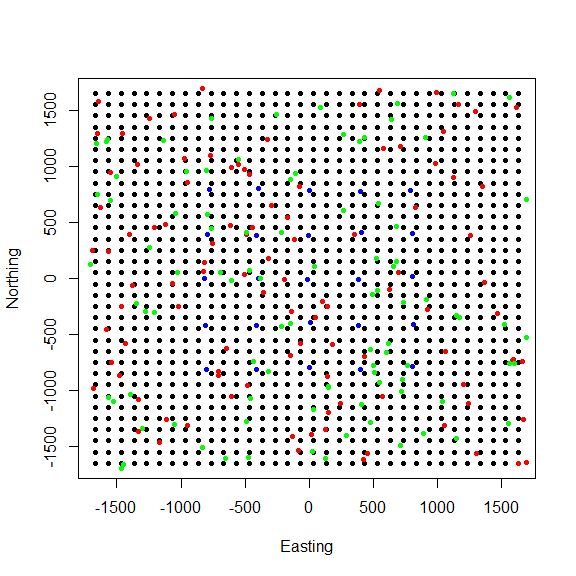
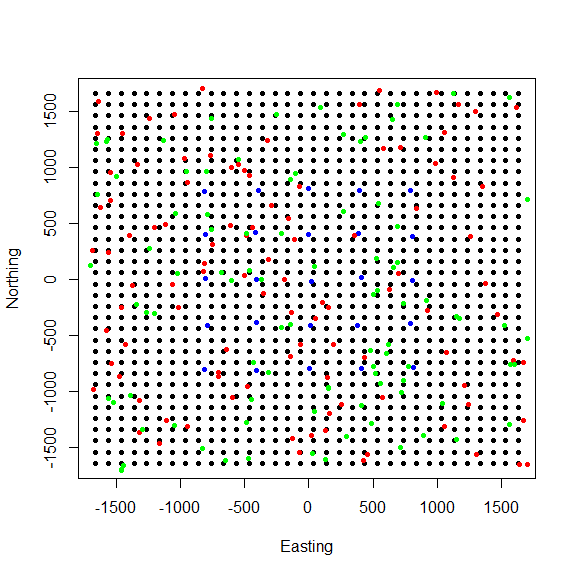
Small update to README files and figures.

diff --git a/README.md b/README.md
@@ -7,42 +7,47 @@
 
 <!-- badges: end -->
 
-The goal of localSCR is to provide user-friendly functions to implement
-spatially-explicit mark recapture (SECR) models using the nimble package
-in R. The package currently has functions to 1) assist with defining the
-state-space grid and extent for a given 2-dimensional or 3-dimensional
-trap array (i.e., when traps are clustered in space), 2) simulate data
-under different encounter distributions and other parameters, 3) create
-habitat masks from either raster data or spatial polygons, 4) provide
-template SECR models that are easily customizable, and 4) fit and
-summarize SECR models using nimble with options for parallel processing.
-Future functionality will include 1) creating realized density surfaces
-from MCMC output and 2) implementing localized approaches as in Milleret
-et al. (2019) and Woodruff et al. (2020). The package also uses block
-updating of x-and y- activity center coordinates to decrease run time.
-Another useful package is nimbleSCR (Bischof et al. 2021) that
+The goal of ‘localSCR’ is to provide user-friendly functions to
+implement spatially-explicit mark recapture (SECR) models using the
+‘nimble’ package in R. The package currently has functions to 1)
+assist with defining the state-space grid and extent for a given
+2-dimensional or 3-dimensional trap array (i.e., when traps are
+clustered in space), 2) simulate data under different encounter
+distributions and other parameters, 3) create habitat masks from either
+raster data or spatial polygons, 4) provide template SECR models that
+are easily customizable, and 4) fit and summarize SECR models using
+nimble with options for parallel processing. Future functionality will
+include creating realized density surfaces from MCMC output and
+implementing localized approaches as in Milleret et al. (2019) and
+Woodruff et al. (2020). The package also uses block updating of x-and y-
+activity center coordinates to decrease run time.
+
+Another useful package is ‘nimbleSCR’ (Bischof et al. 2021) that
 implements custom sampling distributions to increase sampling speed and
 efficiency and recent methods of localized activity area approaches (see
 Milleret et al. 2019) along with other custom functionality. These
-custom distributions from nimbleSCR can be used within our template
-models, but the idea with the localSCR package is to provide a more
-user-friendly means of implementing SCR models in nimble similar to the
-functionality provided by the jagsUI package (Keller 2019) for JAGS
-(Plummer 2017). Our intention is to ease the transistion for users that
+custom distributions from ‘nimbleSCR’ can be used within our template
+models, but the idea with the ‘localSCR’ package is to provide a more
+user-friendly implemention of SECR models in nimble similar to the
+functionality provided by the ‘jagsUI’ package (Keller 2019) for JAGS
+(Plummer 2017). Our intention is to ease the transition for users that
 were previously using JAGS or those that have yet to switch over to
-Bayesian methods because of the complexity of implementing these
-approaches.
+Bayesian methods from frequentist because of the complexity of
+implementing these approaches.
 
 ## Installation
 
-You can install the development version of localSCR like so:
+You can install the development version of ‘localSCR’ like so:
 
 ``` r
 library(remotes)
 install_github("sitkensis22/localSCR")
-#> Skipping install of 'localSCR' from a github remote, the SHA1 (b82b3aec) has not changed since last install.
+#> Skipping install of 'localSCR' from a github remote, the SHA1 (1be89abc) has not changed since last install.
 #>   Use `force = TRUE` to force installation
 ```
+
+Be sure to see important information about using ‘nimble’ on your
+computer (including installing rtools): <https://r-nimble.org/download>
 
 ## Example
 
@@ -84,14 +89,15 @@ points(traps, col="blue",pch=20)
 ``` r
 
 # simulate SCR data
-data3d = sim_classic(X = traps, ext = Grid$ext, crs_ = mycrs, sigma_ = mysigma, prop_sex = 1, N = 200, K = 4, base_encounter = 0.25, enc_dist = "binomial", hab_mask = FALSE, setSeed = 50)
+data3d = sim_classic(X = traps, ext = Grid$ext, crs_ = mycrs, sigma_ = mysigma, prop_sex = 1,
+N = 200, K = 4, base_encounter = 0.25, enc_dist = "binomial", hab_mask = FALSE, setSeed = 50)
 
 # inspect simulated data
 str(data3d)
 #> List of 3
 #>  $ y  : int [1:200, 1:25, 1:4] 0 0 0 0 0 0 0 0 0 0 ...
 #>  $ sex: int [1:200] 1 1 1 1 1 1 1 1 1 1 ...
-#>  $ s  : num [1:200, 1:2] 712.9 -216.1 -1030.5 912.8 42.7 ...
+#>  $ s  : num [1:200, 1:2] 718 -212 -1027 918 47 ...
 #>   ..- attr(*, "dimnames")=List of 2
 #>   .. ..$ : NULL
 #>   .. ..$ : chr [1:2] "sx" "sy"
@@ -101,8 +107,8 @@ str(data3d)
 par(mfrow=c(1,1))
 plot(Grid$grid, pch=20,ylab="Northing",xlab="Easting")
 points(traps, col="blue",pch=20)
-points(data3d$s,col="red",pch = 20)
-points(data3d$s[which(apply(data3d$y,1,sum)!=0),],col="green",pch = 20)
+points(data3d$s,col="red",pch = 20) # all simulated activity centers
+points(data3d$s[which(apply(data3d$y,1,sum)!=0),],col="green",pch = 20) # detected individuals
 ```
 
 <img src="man/figures/README-unnamed-chunk-4-1.png" style="display: block; margin: auto;" />
@@ -127,13 +133,15 @@ Grid = grid_classic(X = traps, crs_ = mycrs, buff = 3*max(mysigma), res = pixelW
 # create polygon for mask
 library(sf)
 #> Linking to GEOS 3.9.1, GDAL 3.2.1, PROJ 7.2.1; sf_use_s2() is TRUE
-poly = st_sfc(st_polygon(x=list(matrix(c(-1765,-1765,1730,-1650,1600,1650,0,1350,-800,1700,-1850,1000,-1765,-1765),ncol=2, byrow=TRUE))), crs =  mycrs)
+poly = st_sfc(st_polygon(x=list(matrix(c(-1765,-1765,1730,-1650,1600,1650,0,1350,-800,1700,
+-1850,1000,-1765,-1765),ncol=2, byrow=TRUE))), crs =  mycrs)
 
 # create habitat mask
 hab_mask = mask_polygon(poly = poly, grid = Grid$grid, crs_ = mycrs, prev_mask = NULL)
 
 # simulate data for uniform state-space and habitat mask
-data3d = sim_classic(X = traps, ext = Grid$ext, crs_ = mycrs, sigma_ = mysigma, prop_sex = 0.7, N = 200, K = 4, base_encounter = 0.15, enc_dist = "binomial",hab_mask = hab_mask, setSeed = 50)
+data3d = sim_classic(X = traps, ext = Grid$ext, crs_ = mycrs, sigma_ = mysigma, prop_sex = 0.7,
+N = 200, K = 4, base_encounter = 0.15, enc_dist = "binomial",hab_mask = hab_mask, setSeed = 50)
 
 # get initial activity center starting values
 s.st3d = initialize_classic(y=data3d$y, M=400, X=traps, buff = 3*max(mysigma), hab_mask = hab_mask)
@@ -143,7 +151,7 @@ par(mfrow=c(1,1))
 plot(Grid$grid, pch=20, xlim=c(-2000,2000),ylim=c(-2000,2000))
 points(traps, col="blue",pch=20)
 plot(poly, add=TRUE)
-points(s.st3d,col="red",pch=20)
+points(s.st3d,col="red",pch=20) # all initalized activity centers
 ```
 
 <img src="man/figures/README-unnamed-chunk-5-1.png" style="display: block; margin: auto;" />
@@ -165,7 +173,9 @@ data$y = apply(data$y, c(1,2), sum) # covert to 2d by summing over occasions
 data$X = rescale_list$X
 
 # prepare constants (note get density in km2 rather than m2)
-constants = list(M = 400,n0 = nrow(data$y),J=dim(data$y)[2], K=dim(data3d$y)[3],x_lower = ext[1], x_upper = ext[2], y_lower = ext[3], y_upper = ext[4],sigma_upper = 1000, A = (sum(hab_mask)*(pixelWidth/1000)^2),pixelWidth=pixelWidth)
+constants = list(M = 400,n0 = nrow(data$y),J=dim(data$y)[2], K=dim(data3d$y)[3],
+x_lower = ext[1], x_upper = ext[2], y_lower = ext[3], y_upper = ext[4],
+sigma_upper = 1000, A = (sum(hab_mask)*(pixelWidth/1000)^2),pixelWidth=pixelWidth)
 
 # augment sex
 data$sex = c(data3d$sex,rep(NA,constants$M-length(data3d$sex)))
@@ -182,7 +192,7 @@ data$OK = rep(1,constants$M)
 s.st3d = rescale_list$s.st
 
 # define all initial values
-inits = list(sigma = runif(2, 250, 350), s = s.st3d,psi=runif(1,0.2,0.3), p0 = runif(1, 0.05, 0.15),pOK = data$OK,z=c(rep(NA,constants$n0),rep(0,constants$M-constants$n0)))
+inits = list(sigma = runif(2, 250, 350), s = s.st3d,psi=runif(1,0.2,0.3), p0 = runif(1, 0.05, 0.15),pOK=data$OK,z=c(rep(NA,constants$n0),rep(0,constants$M-constants$n0)))
 
 # parameters to monitor
 params = c("sigma","psi","p0","N","D","psi_sex")
@@ -195,7 +205,7 @@ library(tictoc)
 tic() # track time elapsed
 out = run_classic(model = scr_model, data=data, constants=constants, inits=inits, params = params,niter = 8000, nburnin=1000, thin=1, nchains=2, parallel=TRUE, RNGseed = 500)
 toc()
-#> 173.84 sec elapsed
+#> 146.61 sec elapsed
 
 # summarize output
 samples = do.call(rbind, out)
@@ -225,11 +235,11 @@ nimSummary(out)
 Bischof R., D. Turek, C. Milleret, T. Ergon, P. Dupont, S. Dey, W. Zhang
 and P. de Valpine. 2021. nimbleSCR: Spatial Capture-Recapture (SCR)
 Methods Using ‘nimble’. R package version 0.1.3.
-<https://CRAN.R-project.org/package=nimbleSCR>
+<https://CRAN.R-project.org/package=nimbleSCR>.
 
 Kellner, K. 2018. jagsUI: a wrapper around ‘rjags’ to streamline ‘JAGS’
-analyses. R package version 1.5.0. <https://CRAN.R-project.org/>
-package=jagsUI.
+analyses. R package version 1.5.0.
+<https://CRAN.R-project.org/package=jagsUI>.
 
 Milleret, C., P. Dupont, C. Bonenfant, H. Henrik Brøseth, Ø. Flagstad,
 C. Sutherland, and R. Bischof. 2019. A local evaluation of the
@@ -237,7 +247,7 @@ individual state‐space to scale up Bayesian spatial capture‐recapture.
 Ecology and Evolution 9:352–363.
 
 Plummer, M. 2017. JAGS version 4.3.0. user manual.
-<https://people.stat>. sc.edu/hansont/stat740/jags\_user\_manual.pdf.
+<https://people.stat.sc.edu/hansont/stat740/jags_user_manual.pdf>.
 
 Woodruff, S., D. R. Eacker, and L. Waits. 2020. Estimating coyote
 density in local, discrete Bayesian capture-recapture models. Journal of
